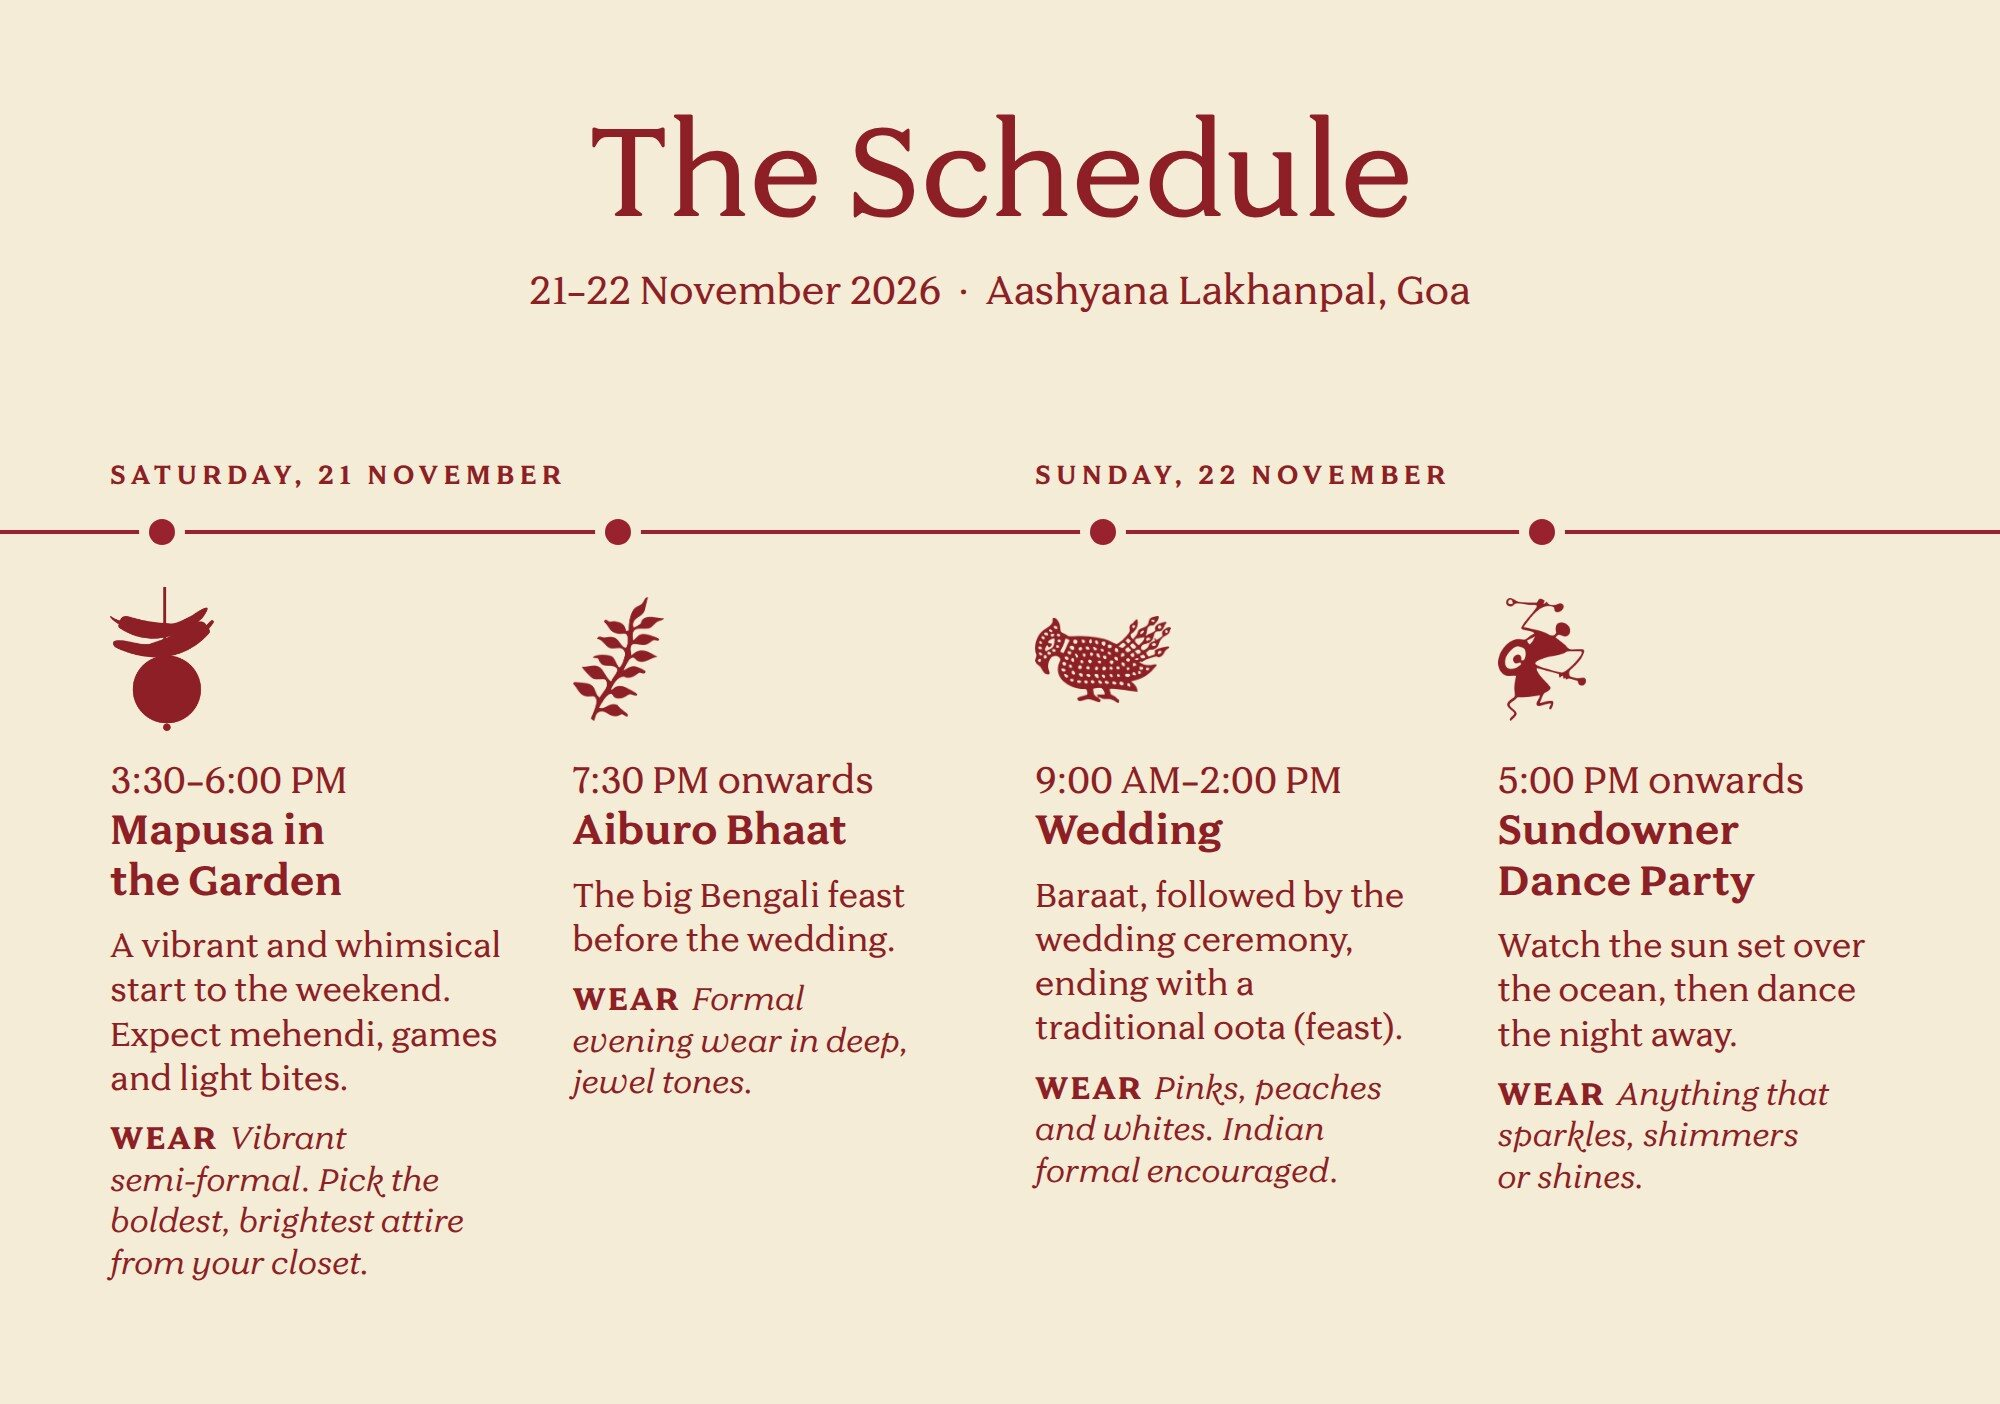
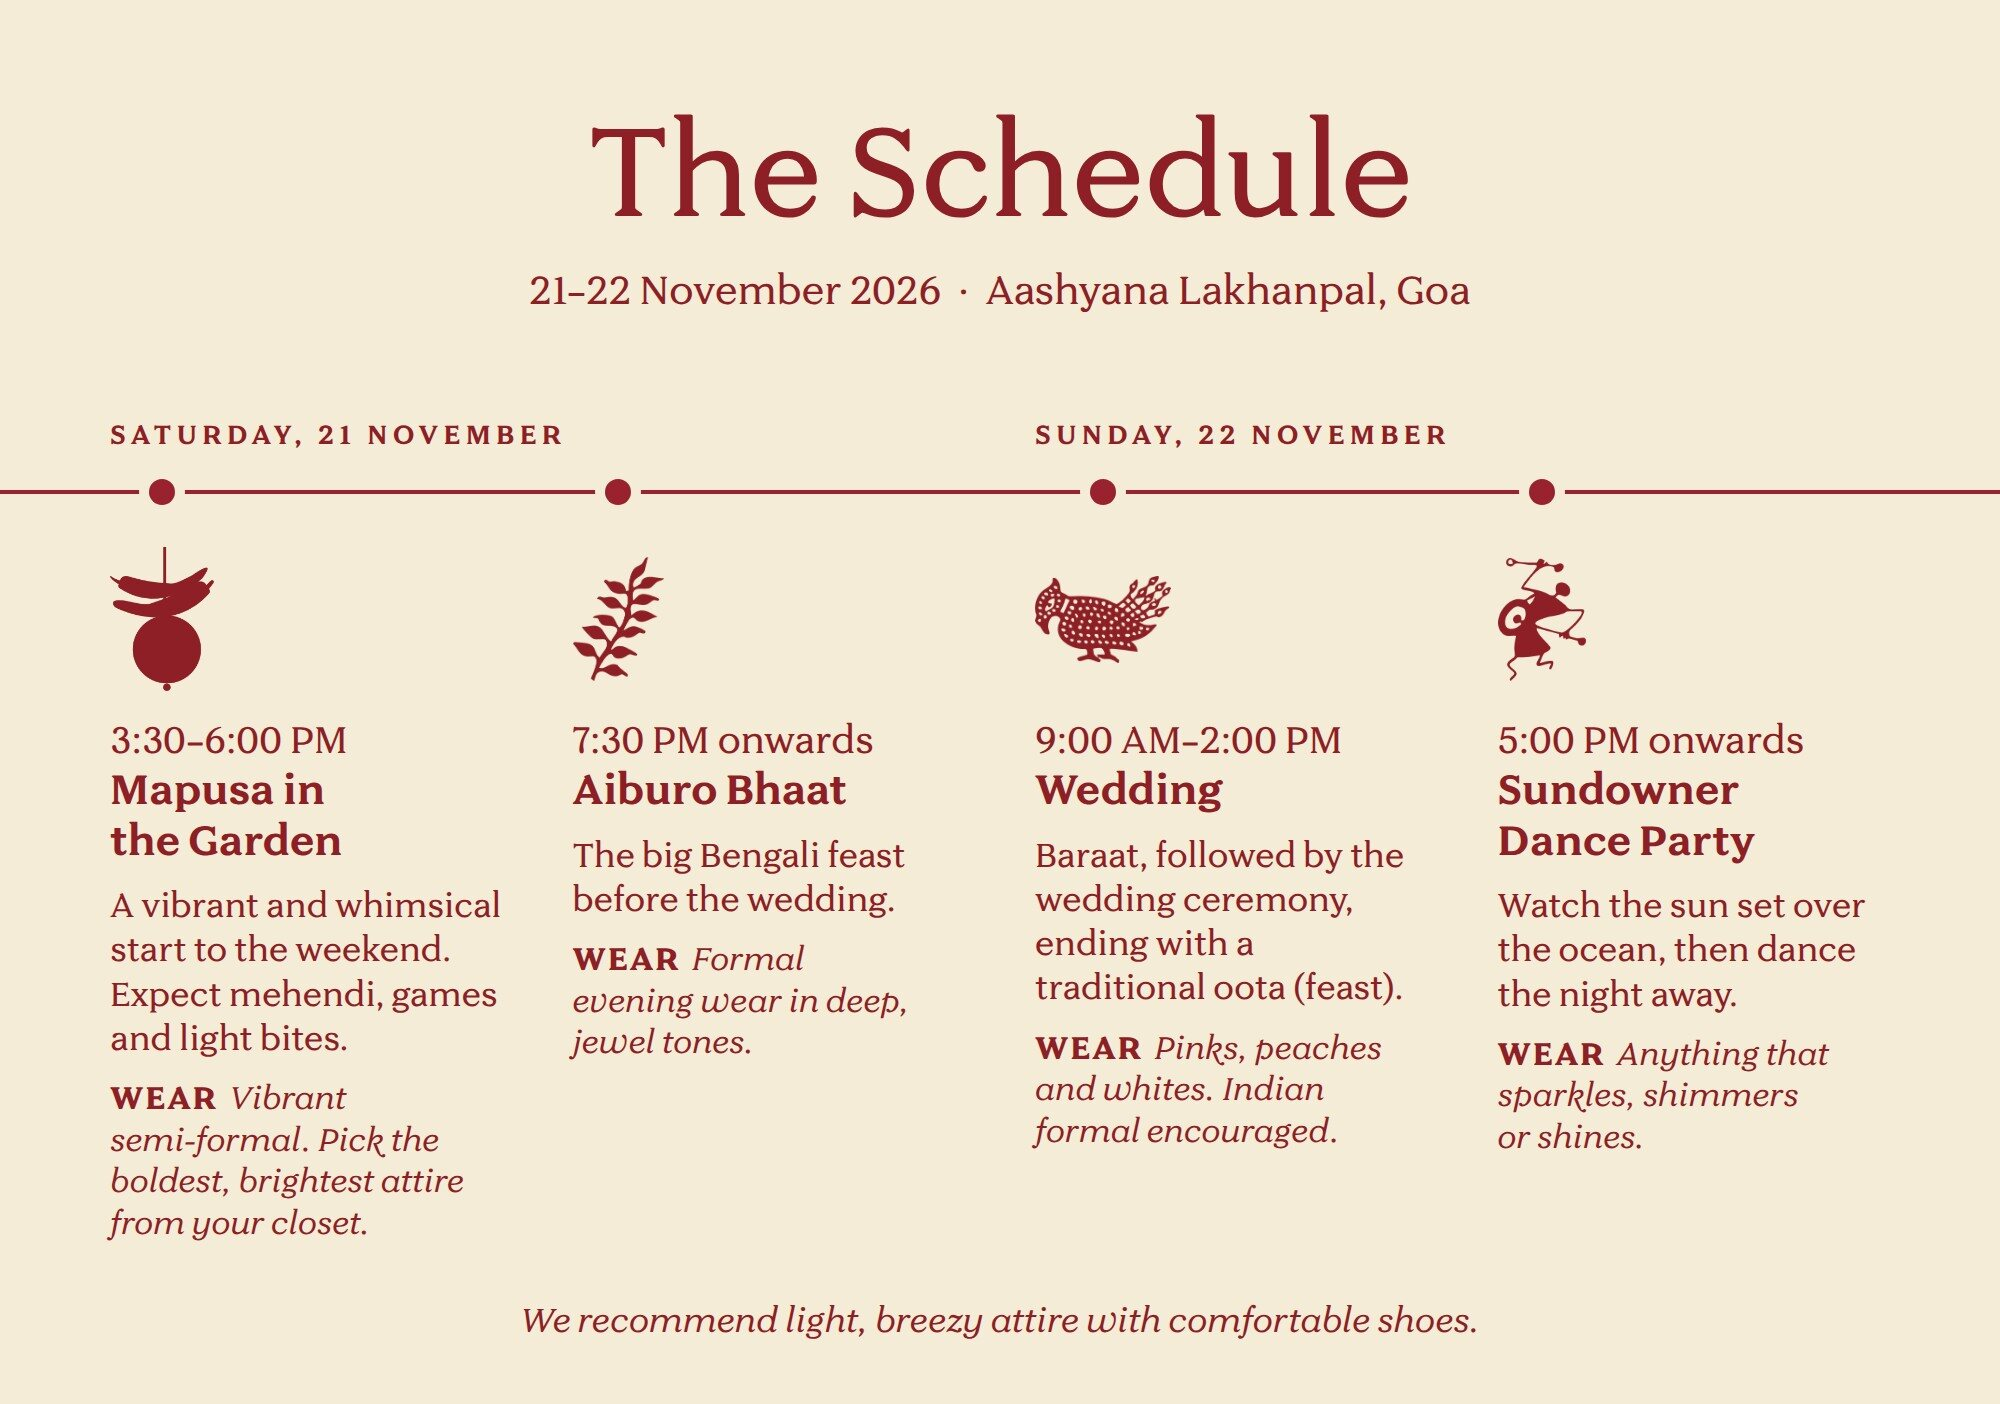
Recommend light, breezy attire on the schedule cards
Both Schedule at a glance cards now close with "We recommend light,
breezy attire with comfortable shoes." On the wide card it sits
centred beneath the four events, with the timeline moved up 40px to
make room. On the phone card it sits flush with the day headings after
the last event, with the red line still running past it to the edge,
and the card grows from 2147px to 2235px tall.

Both cards are re-rendered. The invitation's tall-card ratio matches
the new height, and the card's accessible label reads the new line.

Claude-Session: https://claude.ai/code/session_015nVibWDUthAChW866LzLGR

Changed region(s): [[0.496, 0.3063, 0.93, 0.8575], [0.031, 0.3063, 0.465, 0.9188], [0.248, 0.9188, 0.744, 0.9494]]

diff --git a/invite.html b/invite.html
@@ -214,7 +214,7 @@
 
     <!-- Schedule at a glance -->
     <div class="invite-glance" hidden>
-      <div class="invite-glance-card" role="img" aria-label="The schedule, 21 to 22 November 2026, Aashyana Lakhanpal, Goa. Saturday 21 November: Mapusa in the Garden, 3:30 to 6:00 PM. A vibrant and whimsical start to the weekend. Expect mehendi, games and light bites. Wear vibrant semi-formal; pick the boldest, brightest attire from your closet. Aiburo Bhaat, 7:30 PM onwards. The big Bengali feast before the wedding. Wear formal evening wear in deep, jewel tones. Sunday 22 November: Wedding, 9:00 AM to 2:00 PM. Baraat, followed by the wedding ceremony, ending with a traditional oota (feast). Wear pinks, peaches and whites; Indian formal encouraged. Sundowner Dance Party, 5:00 PM onwards. Watch the sun set over the ocean, then dance the night away. Wear anything that sparkles, shimmers or shines."></div>
+      <div class="invite-glance-card" role="img" aria-label="The schedule, 21 to 22 November 2026, Aashyana Lakhanpal, Goa. Saturday 21 November: Mapusa in the Garden, 3:30 to 6:00 PM. A vibrant and whimsical start to the weekend. Expect mehendi, games and light bites. Wear vibrant semi-formal; pick the boldest, brightest attire from your closet. Aiburo Bhaat, 7:30 PM onwards. The big Bengali feast before the wedding. Wear formal evening wear in deep, jewel tones. Sunday 22 November: Wedding, 9:00 AM to 2:00 PM. Baraat, followed by the wedding ceremony, ending with a traditional oota (feast). Wear pinks, peaches and whites; Indian formal encouraged. Sundowner Dance Party, 5:00 PM onwards. Watch the sun set over the ocean, then dance the night away. Wear anything that sparkles, shimmers or shines. We recommend light, breezy attire with comfortable shoes."></div>
       <div class="invite-glance-foot">
         <a class="invite-glance-download" href="assets/invite/schedule.jpg" download="Jayant-and-Anjali-Schedule.jpg">
           <svg viewBox="0 0 16 16" aria-hidden="true"><path d="M8 2v8M4.5 6.8 8 10.3l3.5-3.5M3 13.5h10" fill="none" stroke="currentColor" stroke-width="1.6" stroke-linecap="round" stroke-linejoin="round"/></svg>

diff --git a/design/schedule-card/v3b.html b/design/schedule-card/v3b.html
@@ -25,7 +25,7 @@
       position: absolute;
       left: 110px;
       right: 110px;
-      top: 458px;
+      top: 418px;
       display: grid;
       grid-template-columns: 1fr 1fr;
       column-gap: 70px;
@@ -34,7 +34,7 @@
       position: absolute;
       left: 0;
       right: 0;
-      top: 530px;
+      top: 490px;
       height: 4px;
       background: var(--rule);
     }
@@ -42,7 +42,7 @@
       position: absolute;
       left: 110px;
       right: 110px;
-      top: 532px;
+      top: 492px;
       display: grid;
       grid-template-columns: repeat(4, 1fr);
       column-gap: 70px;
@@ -100,6 +100,17 @@
       font-weight: 700;
       letter-spacing: 0.06em;
       margin-right: 0.35em;
+    }
+    /* a word on dress for the whole weekend, centred beneath the events */
+    .note {
+      position: absolute;
+      left: 0;
+      right: 0;
+      bottom: 62px;
+      text-align: center;
+      font-style: italic;
+      font-size: 34px;
+      line-height: 1.3;
     }
   </style>
 </head>
@@ -159,6 +170,8 @@
         <p class="wear"><span class="wear-label">Wear</span>Anything that sparkles, shimmers or shines.</p>
       </div>
     </div>
+
+    <p class="note">We recommend light, breezy attire with comfortable shoes.</p>
   </div>
 </body>
 </html>

diff --git a/design/schedule-card/portrait.html b/design/schedule-card/portrait.html
@@ -87,6 +87,15 @@
       letter-spacing: 0.06em;
       margin-right: 0.35em;
     }
+    /* a word on dress for the whole weekend, flush with the day
+       headings so the timeline still runs past it to the card's edge */
+    .note {
+      margin: 0 0 0 136px;
+      font-style: italic;
+      font-size: 34px;
+      line-height: 1.3;
+      text-wrap: balance;
+    }
   </style>
 </head>
 <body>
@@ -142,6 +151,8 @@
           <p class="wear"><span class="wear-label">Wear</span>Anything that sparkles, shimmers or shines.</p>
         </div>
       </div>
+
+      <p class="note">We recommend light, breezy attire with comfortable shoes.</p>
     </div>
   </div>
 </body>

diff --git a/invite.js b/invite.js
@@ -64,7 +64,7 @@
   var GLANCE = {
     wide: { img: 'assets/invite/schedule.jpg', ratio: 2000 / 1404, fill: 0.75,
             file: 'Jayant-and-Anjali-Schedule.jpg' },
-    tall: { img: 'assets/invite/schedule_portrait.jpg', ratio: 1000 / 2147, fill: 0.78,
+    tall: { img: 'assets/invite/schedule_portrait.jpg', ratio: 1000 / 2235, fill: 0.78,
             file: 'Jayant-and-Anjali-Schedule-Phone.jpg' }
   };
   var ACCENT = '#d8c08a';
